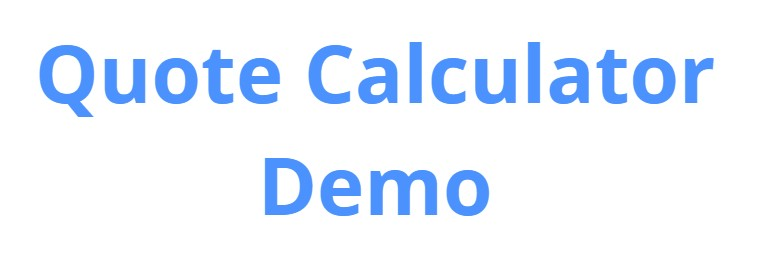
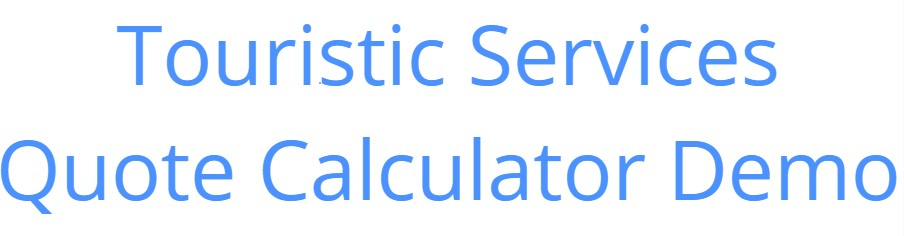
imagen titulo version 2

Changed region(s): [[0.0301, 0.089, 0.9345, 0.4449], [0.0, 0.5636, 0.9948, 0.9195], [0.3316, 0.089, 0.3617, 0.1483]]

diff --git a/quote_calculator.py b/quote_calculator.py
@@ -29,7 +29,7 @@ with open(logo_path, "rb") as img_file:
     logo_base64 = base64.b64encode(img_file.read()).decode()
 
 # Configuración de la página
-st.set_page_config(page_title="Quote Calculator", layout="centered",
+st.set_page_config(page_title="Touristic Services Quote Calculator", layout="centered",
                    
     )
 
@@ -680,14 +680,8 @@ if start_date and end_date:
             )
             selected_ground_transportation.append(ground_transport)
             
-            # Selector de tickets_2024
-            tickets = st.multiselect(
-                f"Tickets for day {i+1}", 
-                tickets_2024,
-                key=f"tickets_{i}",
-                help="Select tickets",
-            )
-            selected_tickets.append(tickets)
+            
+            #selected_tickets.append(tickets)
             
             # Selector de tours
             tour = st.multiselect(
@@ -725,14 +719,7 @@ if start_date and end_date:
             )
             selected_meals.append(meal)
             
-            # Selector de accommodations_santa_cruz
-            accommodation = st.multiselect(
-                f"Accommodations in Santa Cruz for day {i+1}", 
-                accommodations_santa_cruz,
-                key=f"accommodation_{i}",
-                help="Select accommodations in Santa Cruz",
-            )
-            selected_accommodations.append(accommodation)
+            
   
  
         # Botón para calcular cotización
@@ -1234,7 +1221,7 @@ if start_date and end_date:
                 # Calcular el costo del hotel Isabela
               total_cost_isabela = num_nights_isabela * cost_per_night_isabela* num_people
               # Mostrar el resultado en una nueva tabla
-              st.write("### Cost of Isabela Hotel Nights")
+              st.write("### Cost of Hotel Nights")
               st.table(pd.DataFrame({"Description": [f"{num_nights_isabela} night(s), {num_people} pax"], 
                                      "Group Cost": [total_cost_isabela], "Cost per person":[total_cost_isabela/num_people]}))
               # Sumar el costo del hotel Isabela al valor total de la cotización
